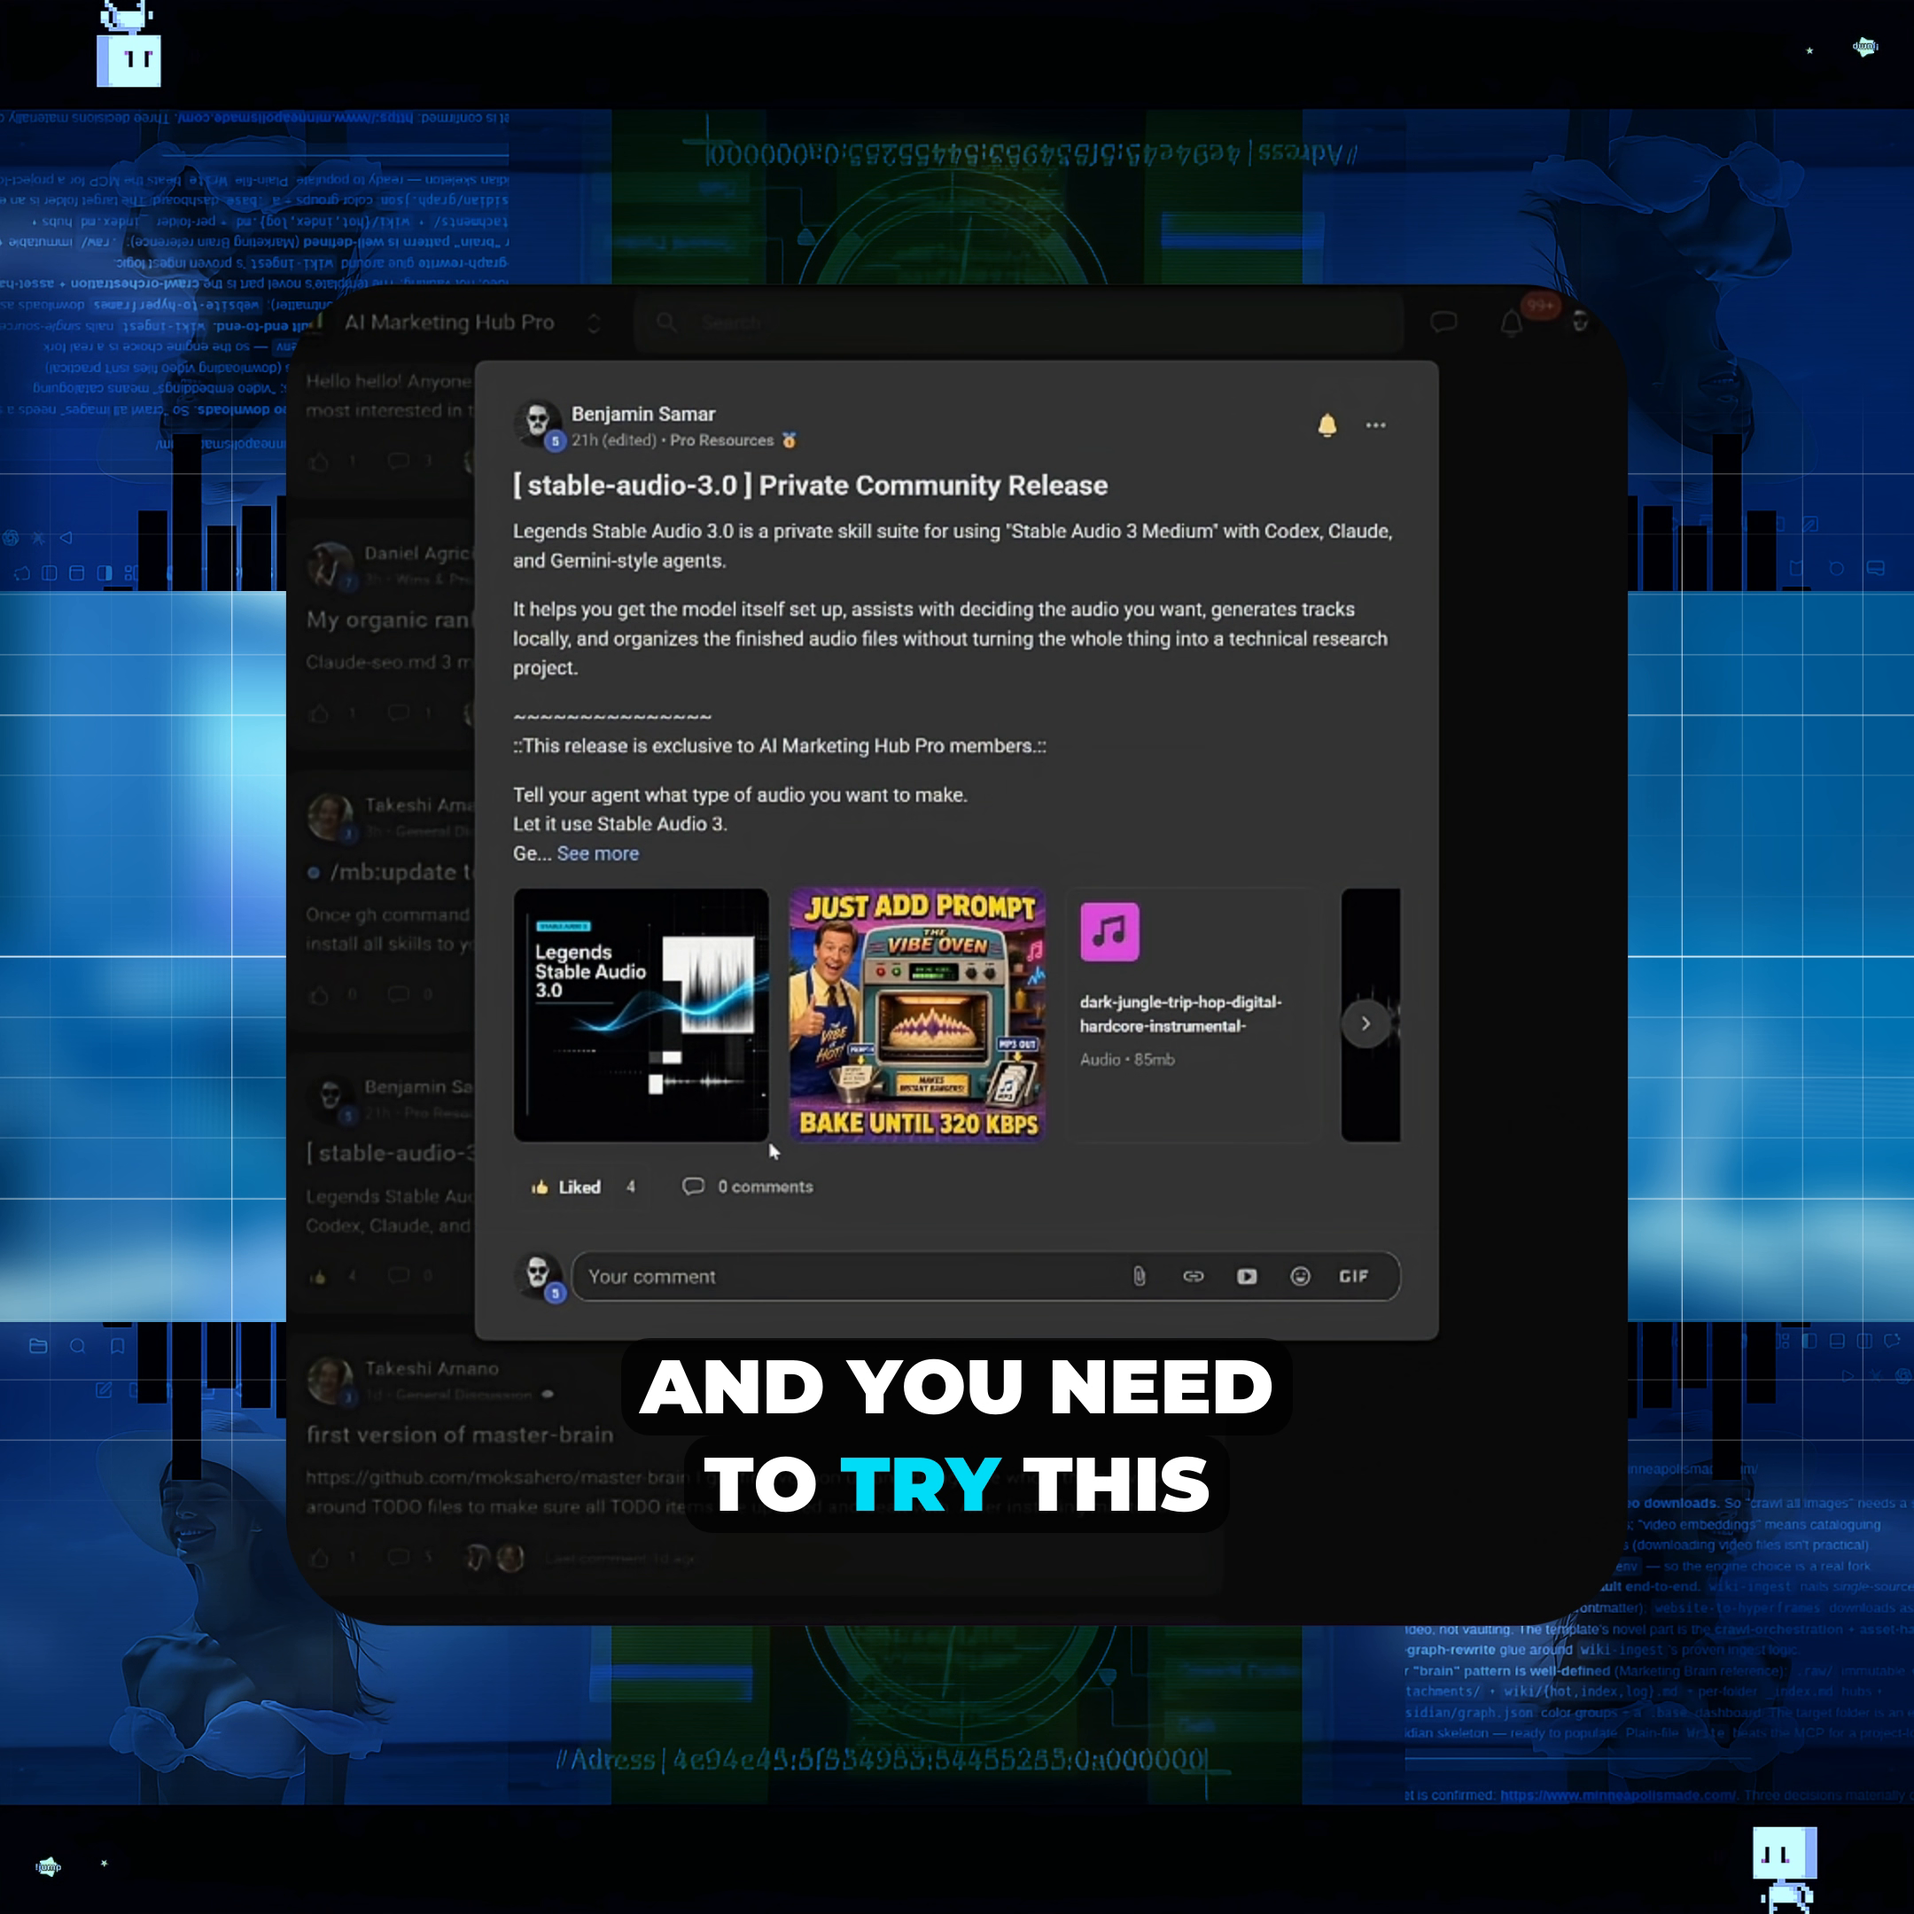
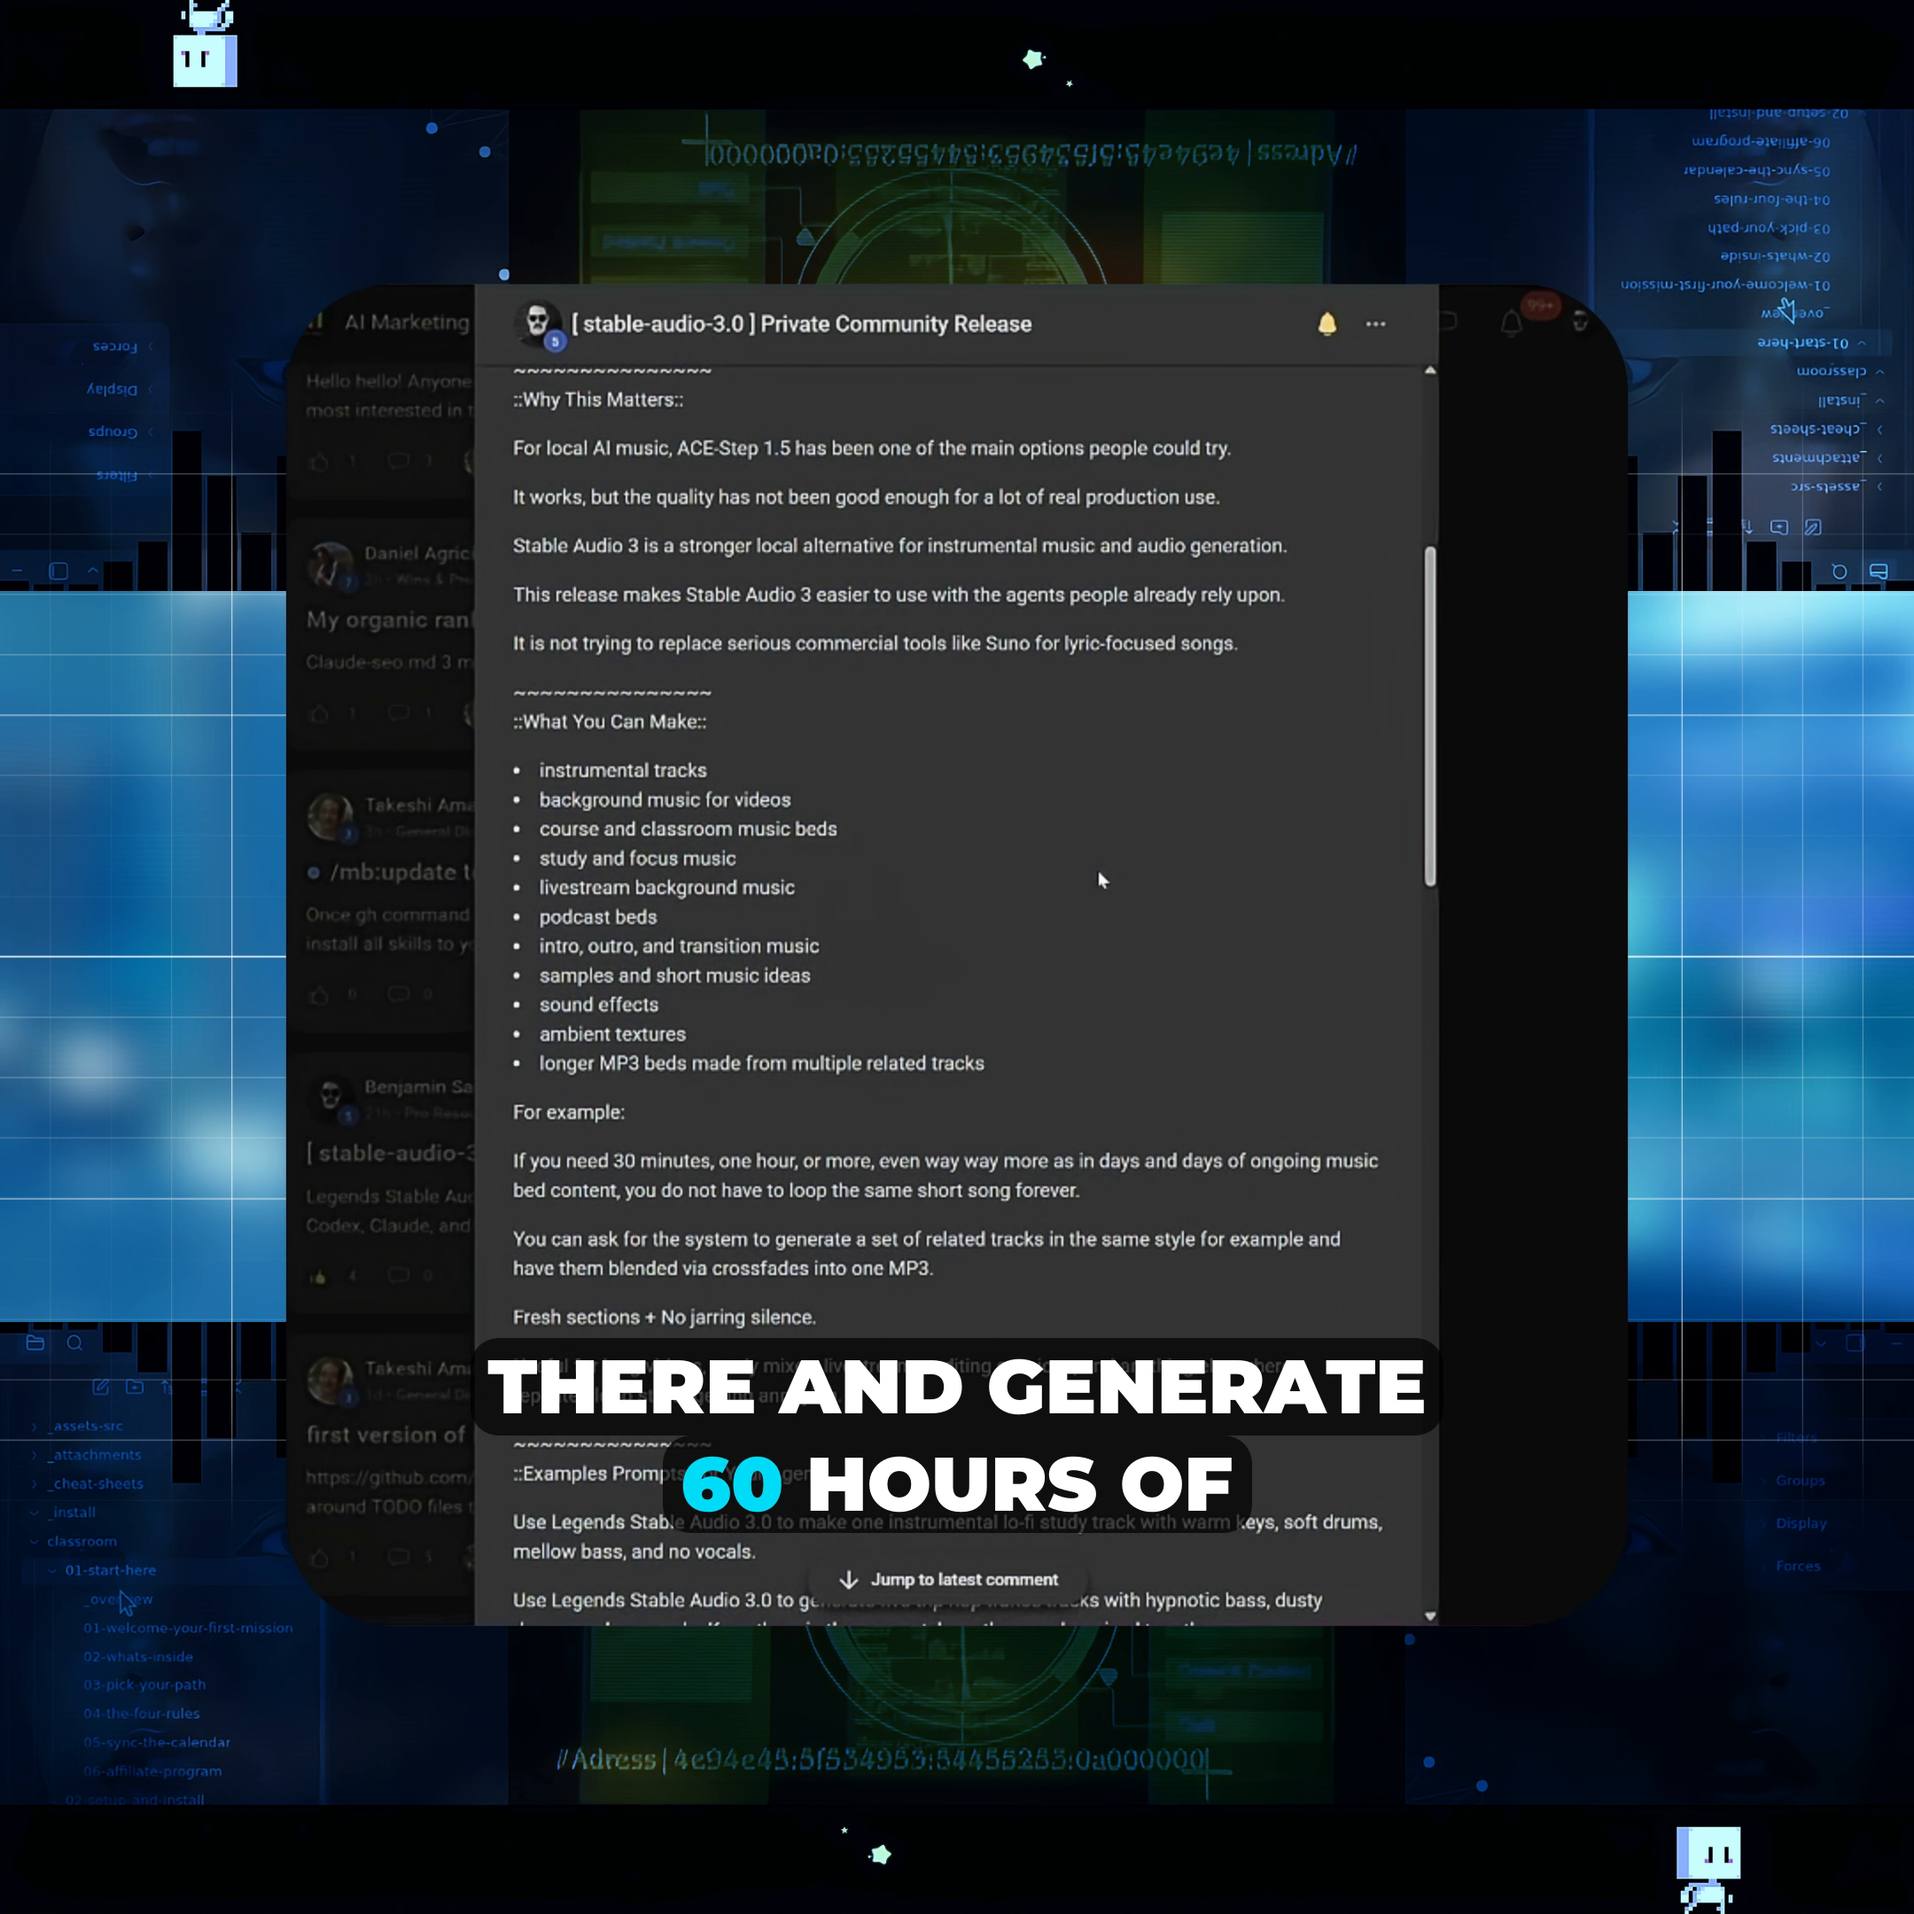
Use the selected 60 hours video preview frame

diff --git a/assets/PROVENANCE.md b/assets/PROVENANCE.md
@@ -20,7 +20,9 @@ marks remain the property of their respective owners.
 ## `stable-audio-3-youtube.png`
 
 - Source: https://www.youtube.com/watch?v=ZMF28c_M7OU (avalon-reset)
-- Frame: 00:25.000 from the owner's full-quality video master
+- Frame: 01:25.900 from the owner's full-quality video master
+- Selection: the owner's chosen "generate 60 hours of music" passage; the
+  visible caption beat reads "THERE AND GENERATE / 60 HOURS OF"
 - Format: native 2160 x 2160 PNG, displayed at 560 x 560 in the README
 - Method: single-frame extraction without cropping, stretching, or rearranging
 - Publication: requested by the video owner for the linked README preview
